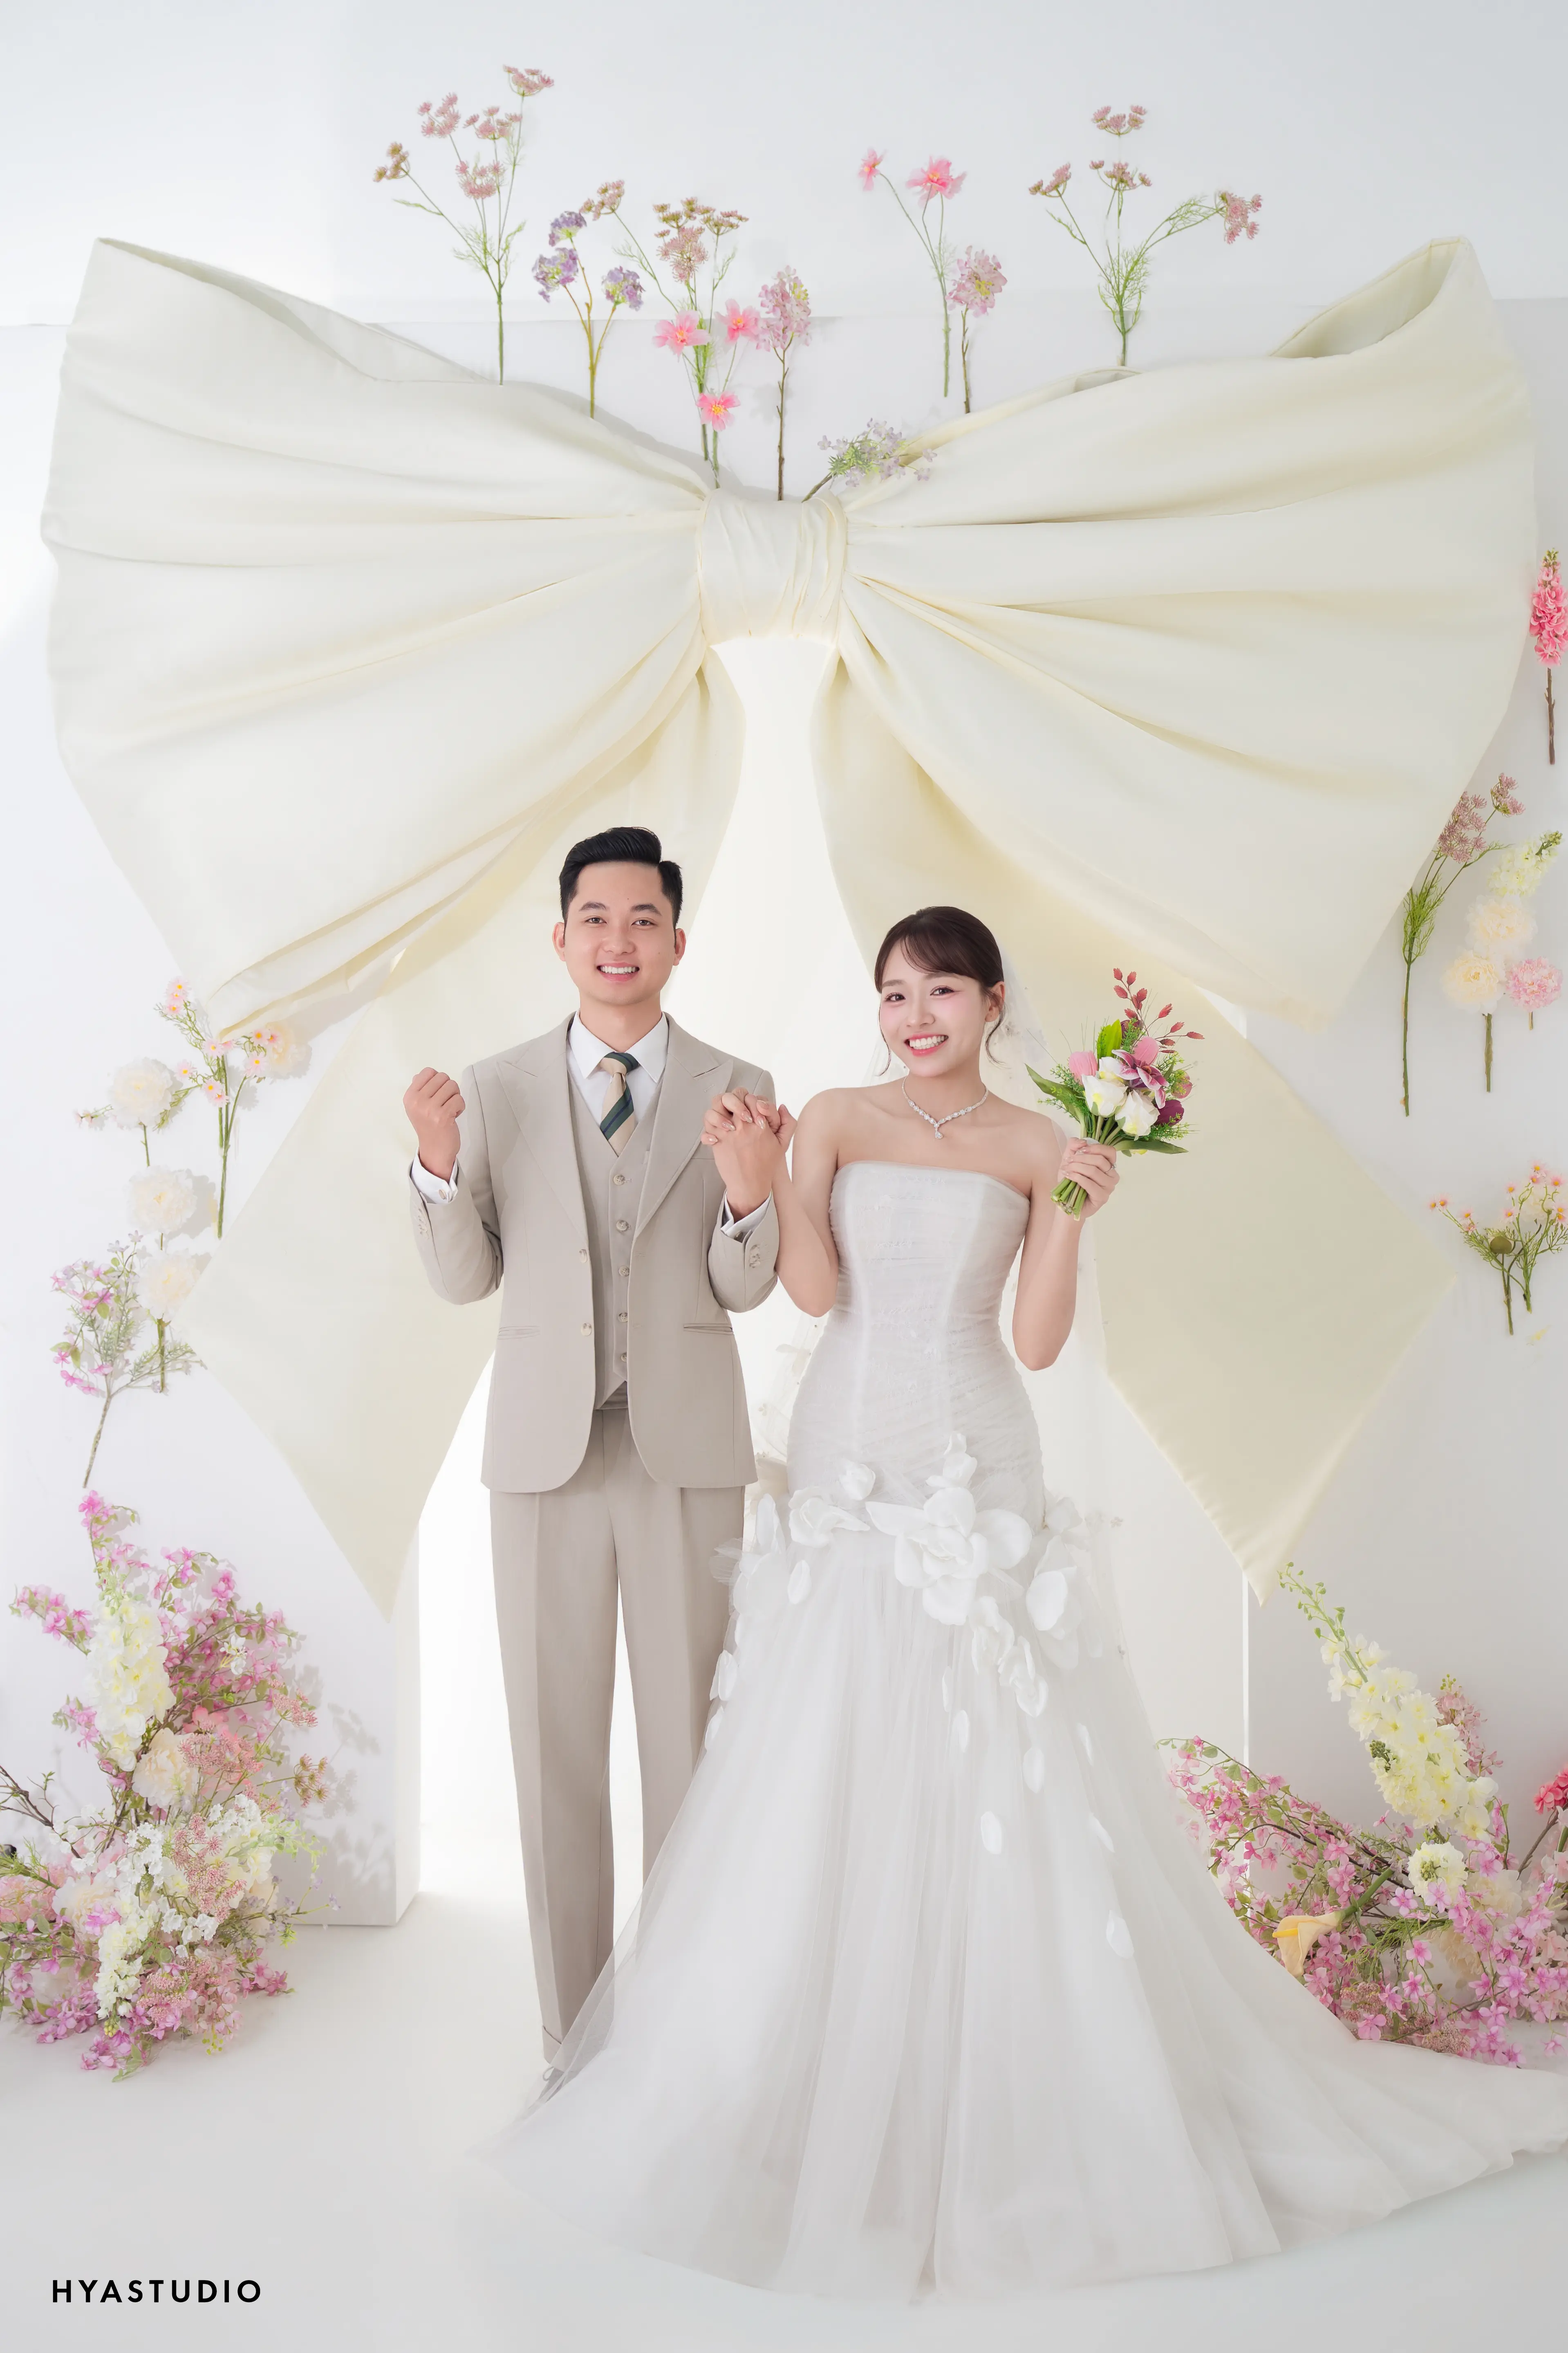
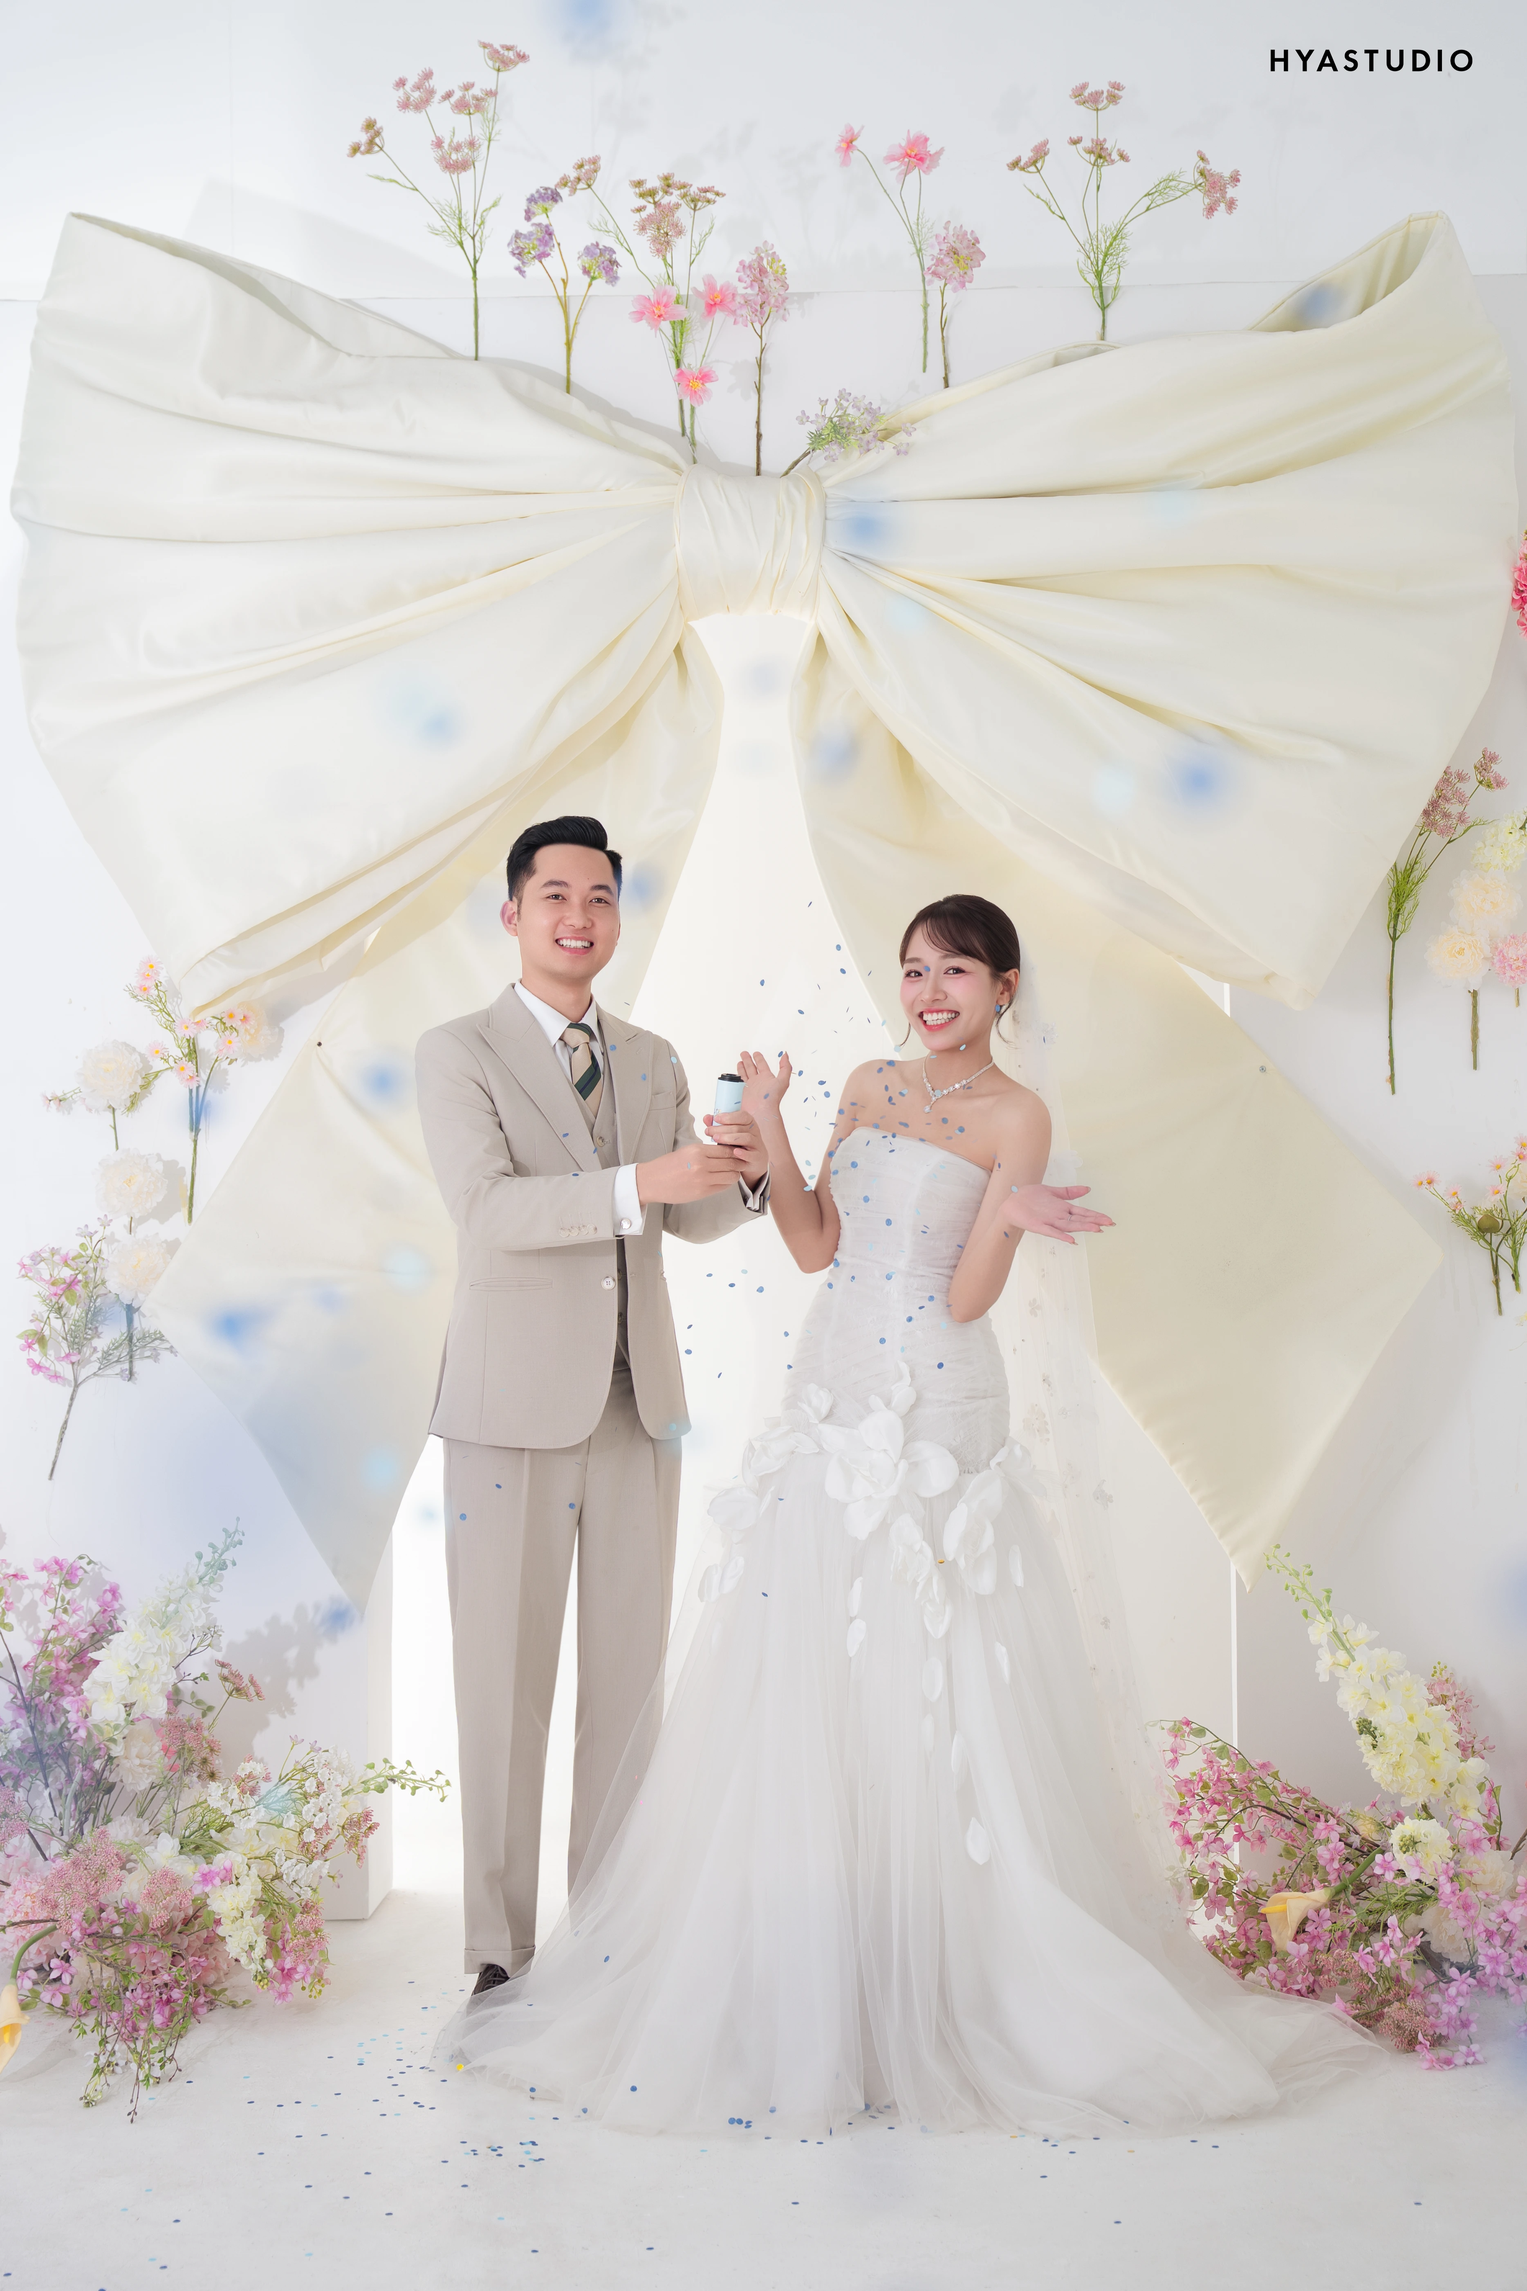
style: fix groom image scaling and position

diff --git a/public/webcake-styles.css b/public/webcake-styles.css
@@ -3479,9 +3479,9 @@
     }
 
     #w-gackq6hi .image-background {
-      width: 497.6375661375662px;
-      height: 758px;
-      top: -114px;
+      width: 202.71015624999998px;
+      height: 314.7293799701789px;
+      top: 0px;
       left: 0px;
       background: center center/ cover no-repeat scroll content-box border-box url("https://content.pancake.vn/1/s1036x1558/fwebp90/f9/80/ea/f2/457c89ec3d89b0ca591ec3bdf2affc5828370c1ec9c231b4b0d65cd7-w:4024-h:6048-l:6366757-t:image/jpeg.jpg");
       --type: 0;
@@ -7314,7 +7314,7 @@
       height: 282.2631578947369px;
       top: -0.9785516422635815px;
       left: -200.93913267275767px;
-      background: center center/ cover no-repeat scroll content-box border-box url("https://content.pancake.vn/1/s1286x913/fwebp90/bc/16/6d/02/8fb7c4176bb80f2a86be09605f32949438cb9b882e939a2619d24423-w:1748-h:1240-l:324842-t:image/png.png");
+      background: center center/ cover no-repeat scroll content-box border-box url("/imge-5.webp");
       --type: 0;
     }
 
@@ -7348,7 +7348,7 @@
       height: 631.3709189515812px;
       top: -107.37091895158119px;
       left: 0px;
-      background: center center/ cover no-repeat scroll content-box border-box url("https://content.pancake.vn/1/s840x1263/fwebp90/2a/9f/e1/11/4665ee74e357c89cc1256a9be52ed7810909f433184665f2732dc52e-w:4024-h:6048-l:9029815-t:image/jpeg.jpg");
+      background: center center/ cover no-repeat scroll content-box border-box url("/img-4.webp");
       --type: 0;
     }
 
@@ -7485,11 +7485,11 @@
     }
 
     #w-gackq6hi .image-background {
-      width: 497.6375661375662px;
-      height: 758px;
-      top: -114px;
+      width: 202.71015624999998px;
+      height: 314.7293799701789px;
+      top: 0px;
       left: 0px;
-      background: center center/ cover no-repeat scroll content-box border-box url("https://content.pancake.vn/1/s1036x1558/fwebp90/f9/80/ea/f2/457c89ec3d89b0ca591ec3bdf2affc5828370c1ec9c231b4b0d65cd7-w:4024-h:6048-l:6366757-t:image/jpeg.jpg");
+      background: center center/ cover no-repeat scroll content-box border-box url("/img-5.webp");
       --type: 0;
     }
 
@@ -7524,7 +7524,7 @@
       height: 314.7293799701789px;
       top: 0px;
       left: 0px;
-      background: center center/ cover no-repeat scroll content-box border-box url("https://content.pancake.vn/1/s622x935/fwebp90/81/64/f0/73/e6c582d0aed88e42fdc417e72964742884e16839af3c2b6b70c471e7-w:4024-h:6048-l:8637754-t:image/jpeg.jpg");
+      background: center center/ cover no-repeat scroll content-box border-box url("/img-6.webp");
       --type: 0;
     }
 

diff --git a/scratch/fix_groom.py b/scratch/fix_groom.py
@@ -1,0 +1,29 @@
+import re
+
+with open("public/webcake-styles.css", "r", encoding="utf-8") as f:
+    css = f.read()
+
+# Replace width, height, top, left in #w-gackq6hi .image-background
+def replace_props(css_content):
+    pattern = r'(#w-gackq6hi\s*\.image-background\s*{[^}]*?)width:\s*[^;]+;(\s*)height:\s*[^;]+;(\s*)top:\s*[^;]+;(\s*)left:\s*[^;]+;'
+    repl = r'\1width: 202.71015624999998px;\2height: 314.7293799701789px;\3top: 0px;\4left: 0px;'
+    
+    # Wait, the order might not be strictly width, height, top, left.
+    # It's safer to use re.sub for each property specifically within the block.
+    return css_content
+
+# Let's do it with a function
+def fix_css_block(match):
+    block = match.group(0)
+    block = re.sub(r'width:\s*[^;]+;', 'width: 202.71015624999998px;', block)
+    block = re.sub(r'height:\s*[^;]+;', 'height: 314.7293799701789px;', block)
+    block = re.sub(r'top:\s*[^;]+;', 'top: 0px;', block)
+    block = re.sub(r'left:\s*[^;]+;', 'left: 0px;', block)
+    return block
+
+css = re.sub(r'#w-gackq6hi\s*\.image-background\s*{[^}]+}', fix_css_block, css)
+
+with open("public/webcake-styles.css", "w", encoding="utf-8") as f:
+    f.write(css)
+
+print("CSS updated successfully.")

diff --git a/scratch/extract_paths.py b/scratch/extract_paths.py
@@ -1,0 +1,18 @@
+import re
+
+with open("public/webcake-styles.css", "r", encoding="utf-8") as f:
+    css = f.read()
+
+ids = [
+    "w-xnhxst1e",
+    "w-gackq6hi",
+    "w-l628a6sl"
+]
+
+for el_id in ids:
+    print(f"--- {el_id} ---")
+    matches = re.findall(rf'#{el_id}\s+\.image-background\s*{{[^}}]*?url\("([^"]+)"\)', css)
+    if not matches:
+        matches = re.findall(rf'#{el_id}\s*{{[^}}]*?url\("([^"]+)"\)', css)
+    for m in matches:
+        print(m)

diff --git a/scratch/check_containers.py b/scratch/check_containers.py
@@ -1,0 +1,13 @@
+import re
+
+with open("public/webcake-styles.css", "r", encoding="utf-8") as f:
+    css = f.read()
+
+def get_css(el_id):
+    print(f"--- {el_id} ---")
+    matches = re.findall(rf'(#{el_id}\s*{{[^}}]+}})', css)
+    for m in matches:
+        print(m.strip())
+
+get_css("w-gackq6hi")
+get_css("w-l628a6sl")

diff --git a/scratch/check_bride.py b/scratch/check_bride.py
@@ -1,0 +1,8 @@
+import re
+
+with open("public/webcake-styles.css", "r", encoding="utf-8") as f:
+    css = f.read()
+
+matches = re.findall(r'#w-l628a6sl\s*\.image-background\s*{([^}]+)}', css)
+for m in matches:
+    print(m.strip())

diff --git a/scratch/check_groom.py b/scratch/check_groom.py
@@ -1,0 +1,8 @@
+import re
+
+with open("public/webcake-styles.css", "r", encoding="utf-8") as f:
+    css = f.read()
+
+matches = re.findall(r'#w-gackq6hi\s*\.image-background\s*{([^}]+)}', css)
+for m in matches:
+    print(m.strip())
